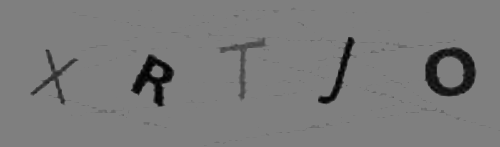
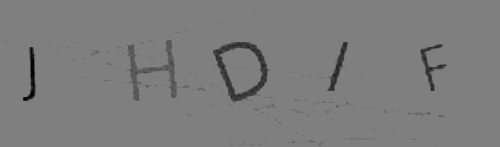
CV implemented
Here, we are identifying each letter to be compared to the database using CV tools .

diff --git a/MethodTest.py b/MethodTest.py
@@ -1,4 +1,4 @@
-from PIL import Image
+import pil.Image as Image
 import cv2
 
 Methods = [
@@ -9,10 +9,10 @@ Methods = [
     cv2.THRESH_TOZERO_INV,
 ]
 
-Image = cv2.imread("bdcaptcha/telanova0.png")
+image = cv2.imread("bdcaptcha/telanova2.png")
 
 #turn image into grey scale
-GreyImage = cv2.cvtColor(Image, cv2.COLOR_RGB2GRAY)
+GreyImage = cv2.cvtColor(image, cv2.COLOR_RGB2GRAY)
 
 i = 0
 
@@ -21,14 +21,15 @@ for Method in Methods:
     _, ProcessedImage = cv2.threshold(GreyImage, 127, 255, Method or cv2.THRESH_OTSU)
     cv2.imwrite(f'MethodsTests/ProcessedImage_{i}.png', ProcessedImage)
 
-Image = img.open("MethodsTests/ProcessedImage_3.png")
-Image = img.convert("P")
-AuxImage = img.new("P", Image.size, 255)
+img = Image.open("MethodsTests/ProcessedImage_3.png")
+img = img.convert('L')
+AuxImage = Image.new('L', img.size, 255)
 
-for x in range(Image.size[1]):
-    for y in range(Image.size[2]):
-        PixelColor = img.getpixel((y, x))
+
+for x in range(img.size[1]):
+    for y in range(img.size[0]):
+        coordinate = y, x
+        PixelColor = img.getpixel(coordinate)
         if PixelColor < 115:
             AuxImage.putpixel((y, x), 0)
-
 AuxImage.save("MethodsTests/FinalImage.png")

diff --git a/Disaggregate.py b/Disaggregate.py
@@ -1,0 +1,35 @@
+import cv2
+import os
+import glob
+
+files = glob.glob("ProcessedImages/*")
+
+for file in files:
+    img = cv2.imread(file)
+    img = cv2.cvtColor(img, cv2.COLOR_RGB2GRAY)
+    _, img = cv2.threshold(img, 0, 255, cv2.THRESH_BINARY_INV)
+
+    edges, _ = cv2.findContours(img, cv2.RETR_EXTERNAL, cv2.CHAIN_APPROX_SIMPLE)
+    regions = []
+
+    for edge in edges:
+        (x, y, width, height) = cv2.boundingRect(edge)
+        area = cv2.contourArea(edge)
+        if area > 115:
+            regions.append((x, y, width, height))
+
+    if len(regions) != 5:
+        continue
+
+    FinalImage = cv2.merge([img] * 3)
+    i=0
+    for rectangle in regions:
+        i+=1
+        x, y, width, height = rectangle
+        LetterImage = img[y-2:y+height+2, x-2:x+width+2]
+        filename = os.path.basename(file).replace("png", f"letter{i}.png")
+        cv2.imwrite(f'Letters/{filename}', LetterImage)
+        cv2.rectangle(FinalImage, (x-2, y-2), (x+width+2, y+height+2), (0, 0, 255), 1)
+
+    filename = os.path.basename(file)
+    cv2.imwrite(f"Identified/{filename}", FinalImage)

diff --git a/CaptchaProcessor.py b/CaptchaProcessor.py
@@ -1,1 +1,35 @@
 import cv2
+import os
+import glob
+import pil.Image as Image
+
+def process(origin_dir,  target_dir = "ProcessedImages"):
+    files = glob.glob(f"{origin_dir}/*")
+
+    for file in files:
+
+        image = cv2.imread(file)
+        GreyImage = cv2.cvtColor(image, cv2.COLOR_RGB2GRAY)
+
+        _, ProcessedImage = cv2.threshold(GreyImage, 127, 255, cv2.THRESH_TRUNC or cv2.THRESH_OTSU)
+        filename = os.path.basename(file)
+        cv2.imwrite(f'{target_dir}/{filename}', ProcessedImage)
+
+    files = glob.glob(f"{target_dir}/*")
+    for file in files:
+        img = Image.open(file)
+        img = img.convert('L')
+        AuxImage = Image.new('L', img.size, 255)
+
+        for x in range(img.size[1]):
+            for y in range(img.size[0]):
+                coordinate = y, x
+                PixelColor = img.getpixel(coordinate)
+                if PixelColor < 115:
+                    AuxImage.putpixel((y, x), 0)
+        filename = os.path.basename(file)
+        AuxImage.save(f"{target_dir}/{filename}")
+
+
+if __name__ == "__main__":
+    process('bdcaptcha')
